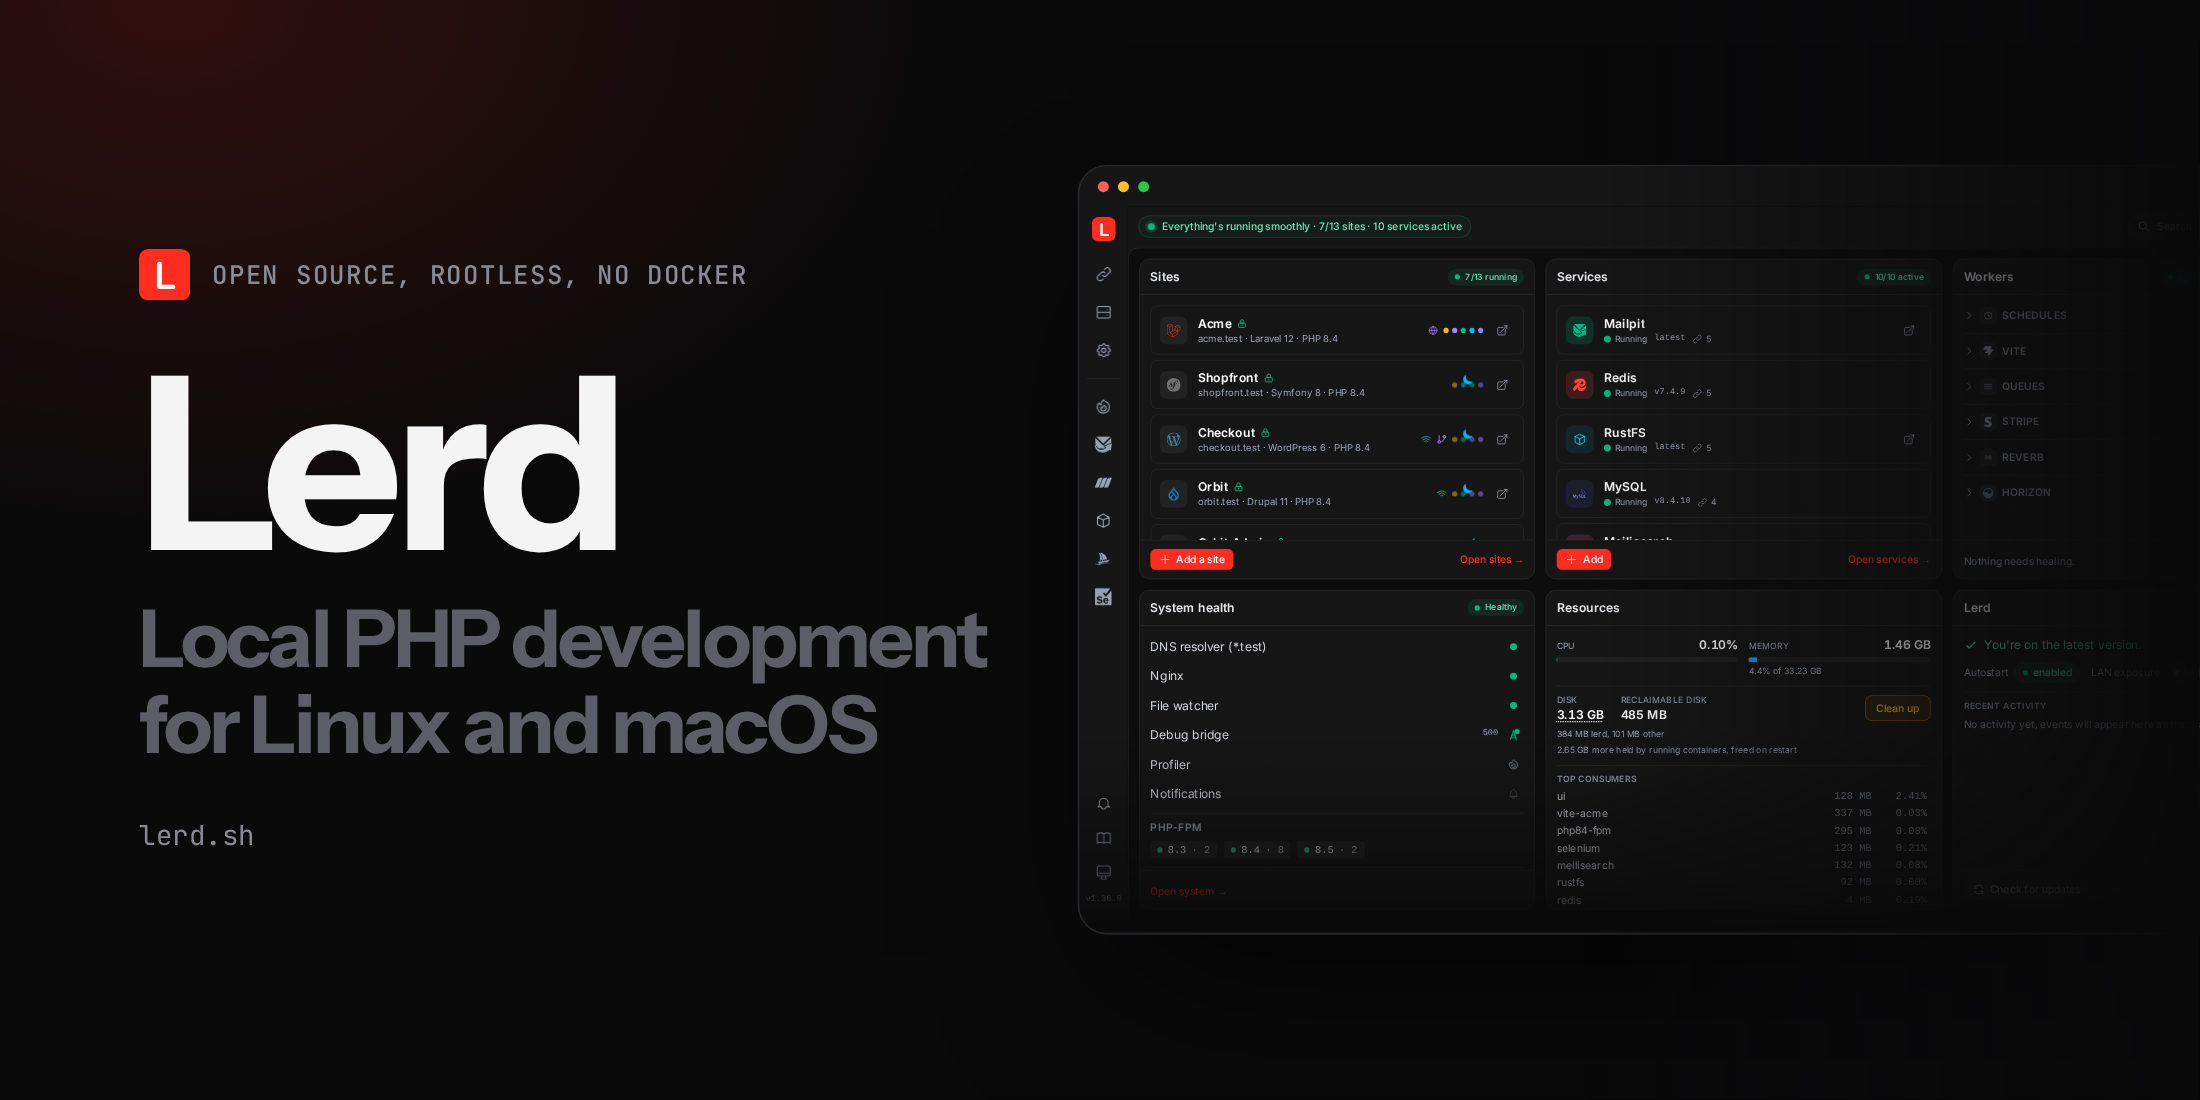
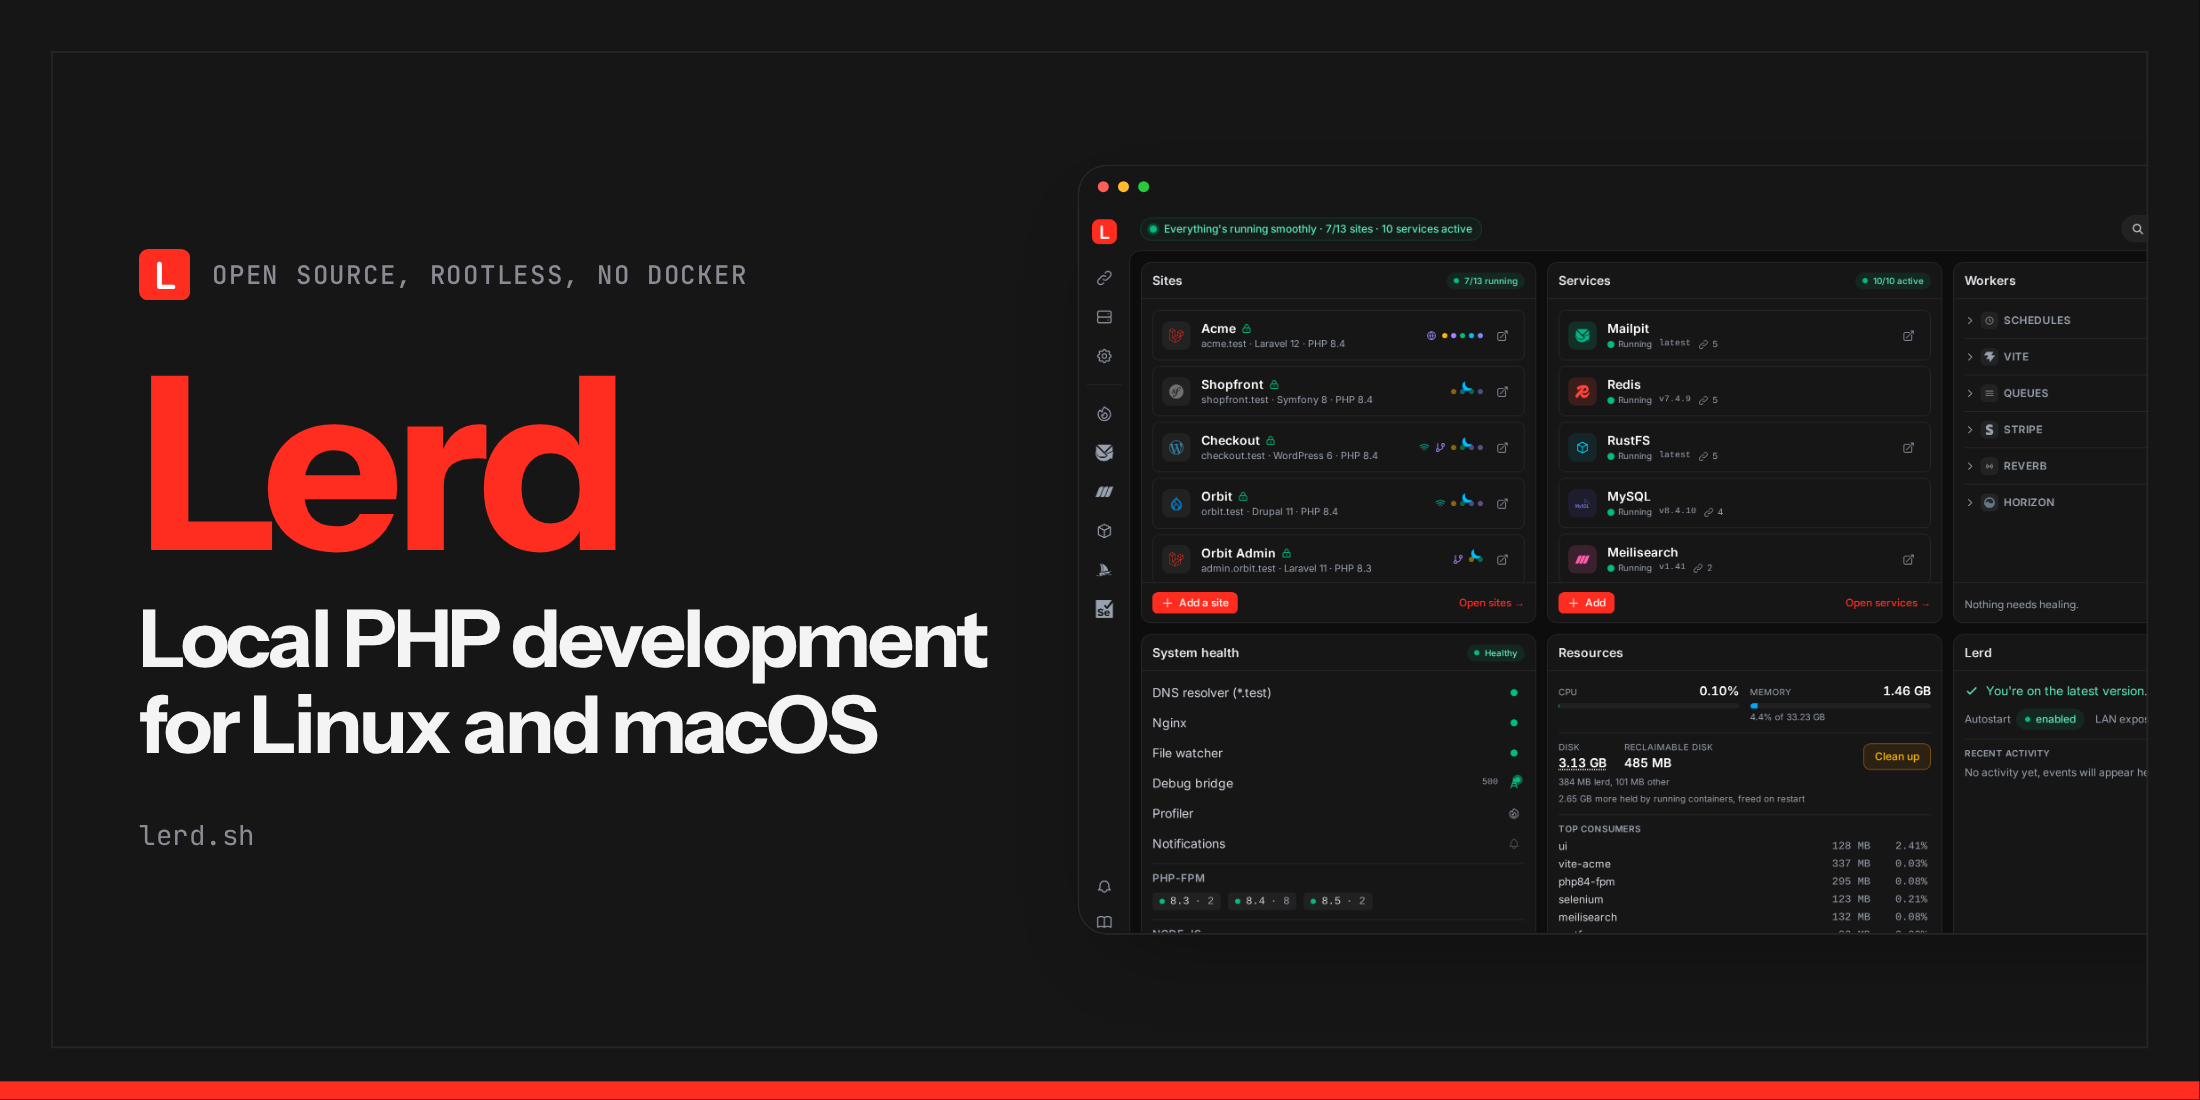
docs: flatten the landing, digests and share card, and restyle the cards
A soft red glow in the corner is the first thing that makes a page read as generated, so the landing hero, the closing install section, the digest template and both digest card washes are flat now. The share card moves to the app's own grey with a red Lerd, a ruled frame in the app's border colour, a red bar along the foot, and the crisp dashboard capture cropped at the frame instead of a shrunk live page that glued words together.

The digest social card follows the same style: Instrument Sans and JetBrains Mono, a mono label row, the version in white with the minor in red, the tagline in grey sentence case and no colour stripe. The script now names the two fonts it draws with.

diff --git a/docs/public/share.html b/docs/public/share.html
@@ -14,7 +14,8 @@
     <style>
       /* ---- Tokens lifted from the landing page ---- */
       :root {
-        --bg: #0a0a0b;
+        --bg: #161616; /* the app's card and header grey, lerd theme */
+        --rule: #262626; /* the app's border colour */
         --bg-2: #0e0e10;
         --panel: #131316;
         --line: #26262c;
@@ -58,14 +59,6 @@
          shorter frame, so only the vertical breathing room changes. */
       .frame.featured { height: 600px; }
 
-      /* The landing hero's red wash, from the top-left corner. */
-      .frame::before {
-        content: "";
-        position: absolute;
-        inset: 0;
-        background: radial-gradient(50% 70% at 8% 0%, rgba(255, 45, 32, 0.16), transparent 70%);
-      }
-
       /* ---- Left: brand + headline + sub ---- */
       .copy {
         position: absolute;
@@ -88,7 +81,11 @@
         color: var(--muted);
       }
       .label img { width: 28px; height: 28px; display: block; }
+      /* A ruled frame inset from the edge and a red bar along the foot. */
+      .frame::before { content: ""; position: absolute; inset: 28px; border: 1px solid var(--rule); z-index: 2; pointer-events: none; }
+      .frame::after { content: ""; position: absolute; left: 0; right: 0; bottom: 0; height: 10px; background: var(--accent); z-index: 4; }
       h1 {
+        color: var(--accent);
         margin: 26px 0 0;
         font-weight: 700;
         font-size: 132px;
@@ -101,7 +98,7 @@
         font-size: 0.33em;
         line-height: 1.08;
         letter-spacing: -0.03em;
-        color: #5d5d66;
+        color: #f4f4f5;
       }
       .sub {
         margin: 30px 0 0;
@@ -110,21 +107,20 @@
       }
 
       /* ---- Right: the dashboard demo, bleeding off and fading to dark ---- */
+      /* Everything outside the frame line is cropped, so the frame is the window's edge. */
+      .stage { position: absolute; inset: 28px; overflow: hidden; z-index: 1; }
       .shot {
         position: absolute;
-        z-index: 1;
         top: 50%;
-        right: -88px;
+        right: -116px; /* the same spot as before the crop: left edge at 588px */
         transform: translateY(-50%);
         width: 700px;
         height: 420px;
-        border: 1px solid var(--line);
+        border: 1px solid #262626;
         border-radius: 16px;
         background: #0d0d0d;
         overflow: hidden;
-        box-shadow:
-          0 1px 0 rgba(255, 255, 255, 0.04) inset,
-          0 40px 90px -28px rgba(0, 0, 0, 0.85);
+        box-shadow: 0 20px 50px -24px rgba(0, 0, 0, 0.45);
       }
       .shot-bar {
         display: flex;
@@ -142,49 +138,23 @@
       .shot-body { position: relative; height: calc(100% - 22px); overflow: hidden; }
       /* Render the demo at a wide logical viewport, then scale it down so the
          full desktop dashboard fits inside the window chrome. */
-      .shot-body iframe {
-        width: 1480px;
-        height: 827px;
-        border: 0;
-        /* Up one pixel: the scaled frame's top row shows the page behind the demo. */
-        transform: translateY(-1px) scale(0.4716);
-        transform-origin: top left;
-        background: #0d0d0d;
-      }
+      .shot-body img { display: block; width: 100%; height: 100%; object-fit: cover; object-position: left top; }
 
-      /* Fade the panel into the dark bg on the right and bottom edges. */
-      .fade {
-        position: absolute;
-        inset: 0;
-        z-index: 2;
-        pointer-events: none;
-        background:
-          linear-gradient(180deg, transparent 72%, rgba(10, 10, 11, 0.6) 92%, var(--bg) 100%);
-      }
-      /* Frame-level right-edge fade — dims the demo as it reaches the true frame
-         edge (the window itself bleeds off-frame and would be clipped). */
-      .edge {
-        position: absolute;
-        inset: 0;
-        z-index: 2;
-        pointer-events: none;
-        background: linear-gradient(90deg, transparent 72%, rgba(10, 10, 11, 0.55) 88%, var(--bg) 100%);
-      }
     </style>
   </head>
   <body>
     <div class="frame">
-      <!-- dashboard demo, behind the copy, fading right/bottom -->
+      <!-- the dashboard, cropped at the frame line -->
+      <div class="stage">
       <div class="shot">
         <div class="shot-bar">
           <span class="dots"><i></i><i></i><i></i></span>
         </div>
         <div class="shot-body">
-          <iframe id="demo" src="/demo/index.html" title="Lerd dashboard" loading="eager"></iframe>
-          <div class="fade"></div>
+          <img src="/assets/landing/dashboard.png" alt="" />
         </div>
       </div>
-      <div class="edge"></div>
+      </div>
 
       <!-- brand + message -->
       <div class="copy">
@@ -194,12 +164,6 @@
       </div>
     </div>
     <script>
-      // The window is drawn as the desktop app, whose title bar is the dashboard's header colour.
-      document.getElementById('demo').addEventListener('load', (e) => {
-        const rail = e.target.contentDocument.querySelector('aside');
-        // The body takes the colour too, so the scaled frame's sub-pixel edge leaves no seam under the bar.
-        if (rail) for (const el of document.querySelectorAll('.shot-bar, .shot')) el.style.background = getComputedStyle(rail).backgroundColor;
-      });
       if (location.search.includes('featured')) {
         document.querySelector('.frame').classList.add('featured');
       }

diff --git a/docs/.vitepress/theme/landing.css b/docs/.vitepress/theme/landing.css
@@ -43,7 +43,7 @@
 .lerd-landing .gh:hover .stars{color:var(--amber);border-color:rgba(251,191,36,.3)}
 
 /* hero: the dashboard bleeds off the right edge */
-.lerd-landing .hero{position:relative;overflow:hidden;padding:96px 0 72px;border-bottom:1px solid var(--line);background:radial-gradient(50% 70% at 8% 0%,rgba(255,45,32,.16),transparent 70%)}
+.lerd-landing .hero{position:relative;overflow:hidden;padding:96px 0 72px;border-bottom:1px solid var(--line)}
 .lerd-landing .hero .wrap{position:relative;z-index:1}
 .lerd-landing .hero h1{font-size:clamp(48px,8vw,104px);line-height:.95;letter-spacing:-.04em;font-weight:700;margin:28px 0;max-width:11ch}
 .lerd-landing .hero h1 span{display:block;color:var(--faint);font-size:.46em;line-height:1.08;letter-spacing:-.03em;margin-top:.3em;max-width:16ch}
@@ -219,7 +219,7 @@
 }
 
 /* cta + footer */
-.lerd-landing .cta{margin:112px 0 0;padding:96px 0;border-top:1px solid var(--line);border-bottom:1px solid var(--line);background:radial-gradient(60% 120% at 50% 0%,var(--wash),transparent 70%)}
+.lerd-landing .cta{margin:112px 0 0;padding:96px 0;border-top:1px solid var(--line);border-bottom:1px solid var(--line)}
 .lerd-landing .cta h2{font-size:clamp(40px,6vw,80px);letter-spacing:-.04em;line-height:.98;font-weight:700;max-width:14ch;margin-top:24px}
 .lerd-landing .cta p{color:var(--ink-2);margin:20px 0 36px;font-size:19px;max-width:52ch}
 .lerd-landing .cta .hero-row{margin-top:0}

diff --git a/docs/digest-template.html b/docs/digest-template.html
@@ -100,7 +100,6 @@
   .hero {
     padding: clamp(56px, 8vw, 96px) 0 clamp(40px, 5vw, 64px);
     border-bottom: 1px solid var(--line);
-    background: radial-gradient(50% 70% at 8% 0%, rgba(255,45,32,0.14), transparent 70%);
   }
   .hero-kicker { font-size: 12px; color: var(--muted); display: flex; align-items: center; gap: 10px; margin-bottom: 24px; }
   .hero-kicker .dot { width: 6px; height: 6px; background: var(--red); }
@@ -274,7 +273,6 @@
   footer {
     margin-top: clamp(64px, 9vw, 112px); border-top: 1px solid var(--line);
     padding: clamp(56px, 7vw, 96px) clamp(16px, 4vw, 48px) clamp(40px, 5vw, 56px);
-    background: radial-gradient(60% 120% at 50% 0%, rgba(255,45,32,0.1), transparent 70%);
   }
   .foot-grid { display: grid; grid-template-columns: 1fr auto; gap: 40px; max-width: 1180px; margin: 0 auto; align-items: start; }
   footer h2 { font-weight: 700; font-size: clamp(32px, 4.4vw, 56px); line-height: 1; letter-spacing: -0.04em; }
